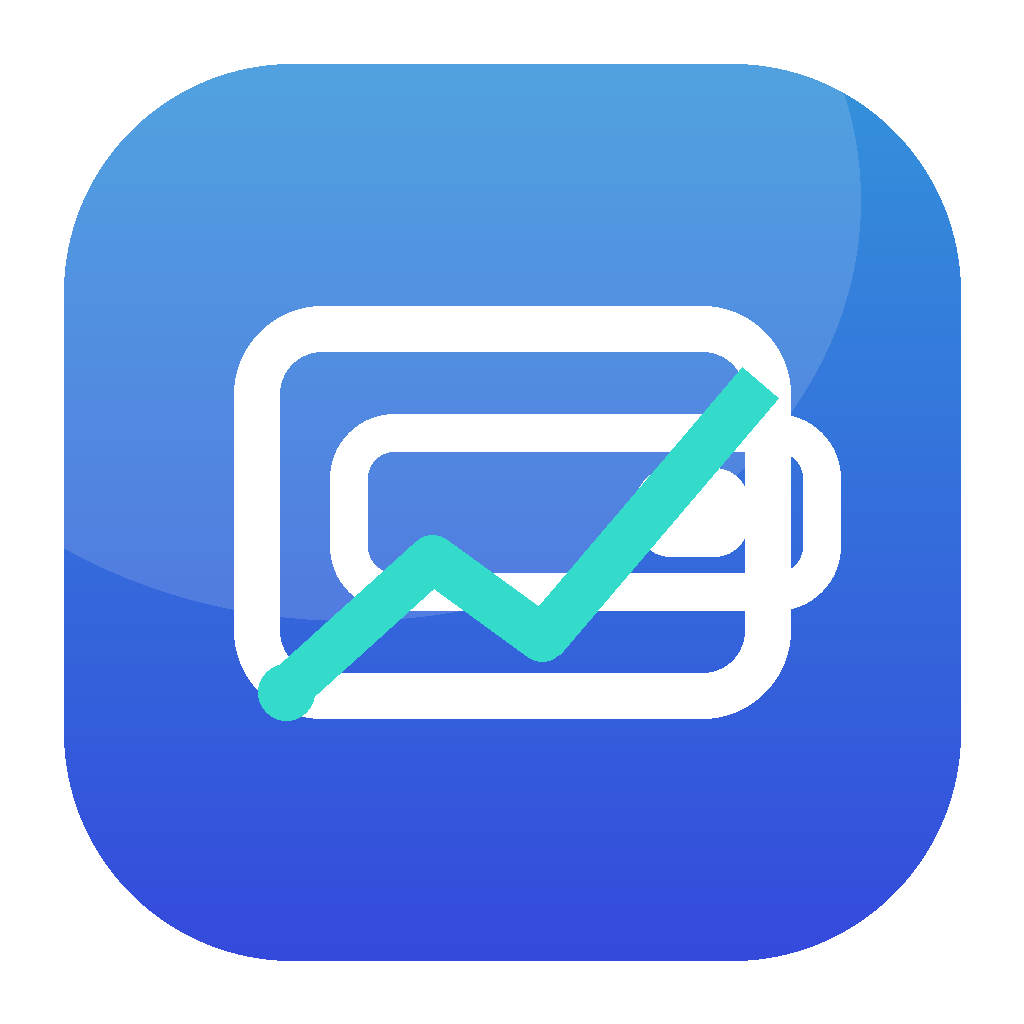
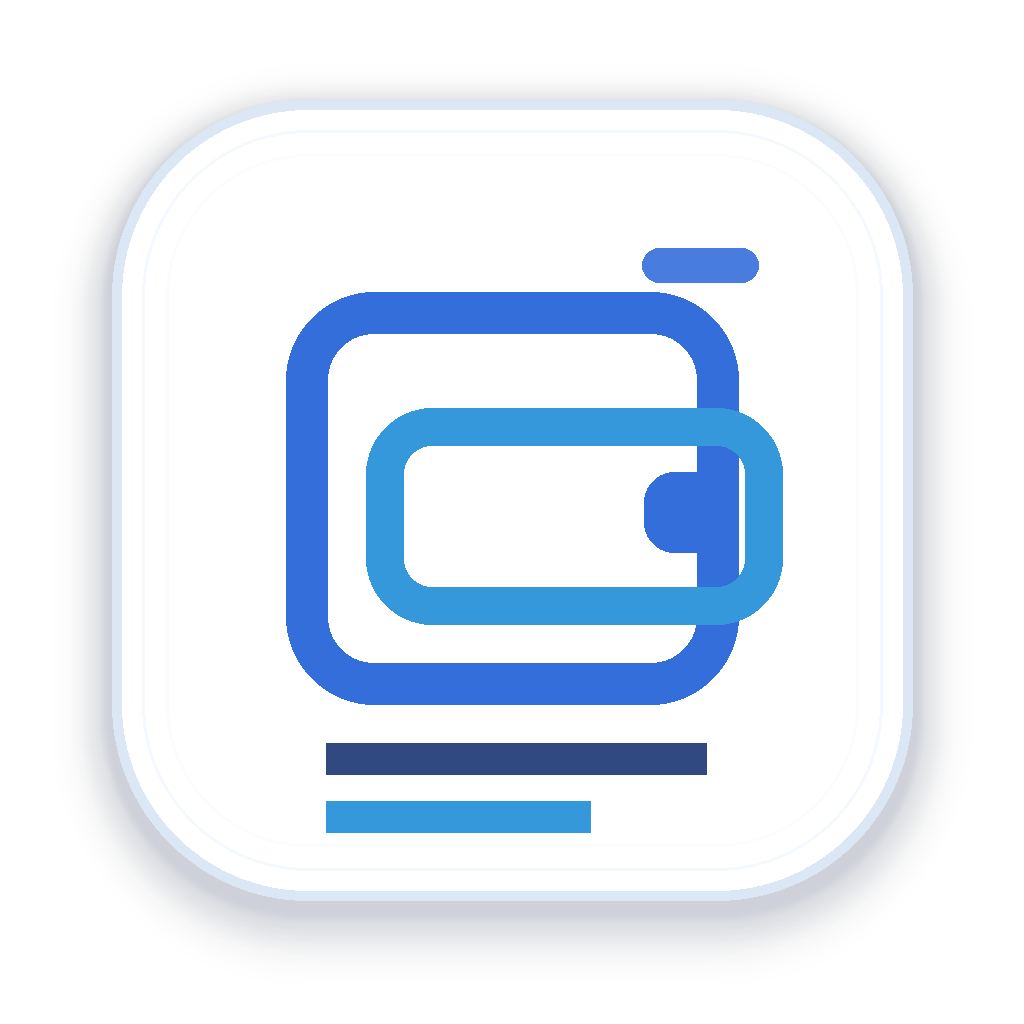
fix: 改进应用图标与支付图标

diff --git a/lib/main.dart b/lib/main.dart
@@ -7321,7 +7321,7 @@ class SettingsPage extends StatelessWidget {
                     ),
                     const Divider(height: 1),
                     _CompactSwitchRow(
-                      icon: Icons.vibration,
+                      icon: Icons.touch_app_outlined,
                       title: const Text('触感反馈'),
                       value: controller.hapticsEnabled,
                       onChanged: controller.setHapticsEnabled,

diff --git a/docs/TODO.md b/docs/TODO.md
@@ -1,11 +1,11 @@
 # 2026-07-03-10:10 任务汇总
 
-- [x] 资产页面，右上角，资产操作弹窗，之前我让你去掉了默认勾选的添加帐号，把它加回来
-- [x] 资产页面，添加资产的时候，账户图标部分，我准备好了一些图标： /home/talyra42/Downloads，你可以查看其中的图标，然后提供一个分类选择弹出层（也是下面弹出的那个框架，不过这次选择的是图标了，左边图标，右边描述），然后对于设置账户图标，可以让用户选择这些图标中的任意一个图标。对于不同的图标，不同的 svg 大小可能不同，后面我可能会和你说图标大小的问题。
-- [x] 我需要你为我的软件绘制一个好看的图标，目前仍然是 Flutter 的默认图标；另外，应用安装包的名字需要改一下，改成 verifin-v1.0.0-xxx 这样子。并且应用在手机上展示的名称，应该是 VeriFin，目前是全部小写的。
-- [x] 设置页面最下面，可以增加一个灰色的小字，展示当前应用的版本
-- [x] 设置页面，不需要同步方式、android 打包的这个卡片，这个东西有点意义不明。
-- [x] 对于我的页面的账本、分类管理，或者是下面的那种列表，这个列表应该是全局都用到的吧？这个列表有点问题，上下的内间距有点高了，需要调整一下。
-- [x] 对于记账的面板，数字部分，或者是其他操作部分，我需要你增加震动效果，默认是系统的震动大小（就是点击以后，手机会有一个触感），然后设置里面可以提供一个是否打开触感的开关，默认打开。
-- [x] 当日交易页面，搜索的下面的筛选，现在两个搜索是分开的，全部帐号、全部分类的这两个筛选项目，应该全部靠左才对，目前全部分类的距离全部账户有点远了。
-- [x] 记账的页面，分类反而地方，点击全部，查看所有的分类的时候，下面弹出来的里面，应该是列表，而不是多个Tag，改成一个列表的形式。
+## 初始任务
+
+已完成
+
+## v2 任务
+
+- [x] 这个应用图标有点丑，特别是那个绿色的对勾，实在不行，你就去掉对勾吧，然后不要蓝色背景，弄成白色，或者是好看一些的，看起来更加高级的效果，目前这个一看就是 AI 画的。不要大色块，要简洁，优雅，你可以设计一下。
+- [x] 选择账户图标部分，现在的 支付平台的所有图标，都整体偏小，因为这些 svg 的外层都有一定的空白，并且有的图标，比如微信支付，空白的上下还不一样。我需要你调整一下这些 svg 图片，让他和下面银行的图标大小保持一致。
+- [x] 设置，触感反馈的前面没有图标，目前就是一个圆角矩形，里面没东西。
